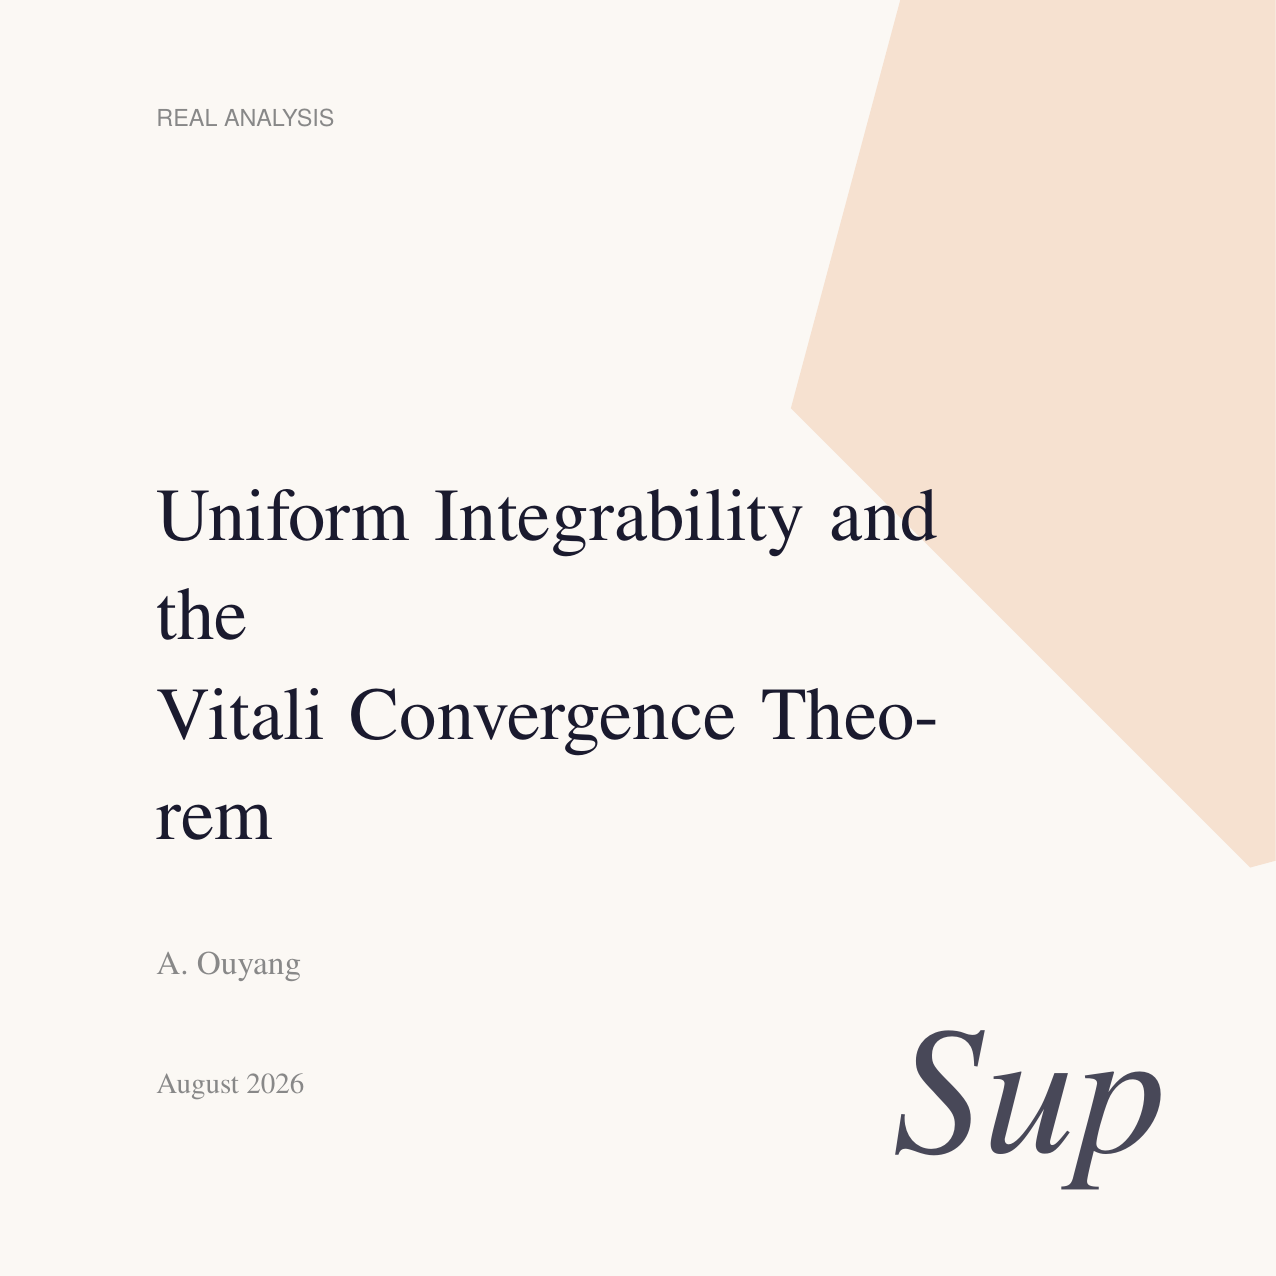
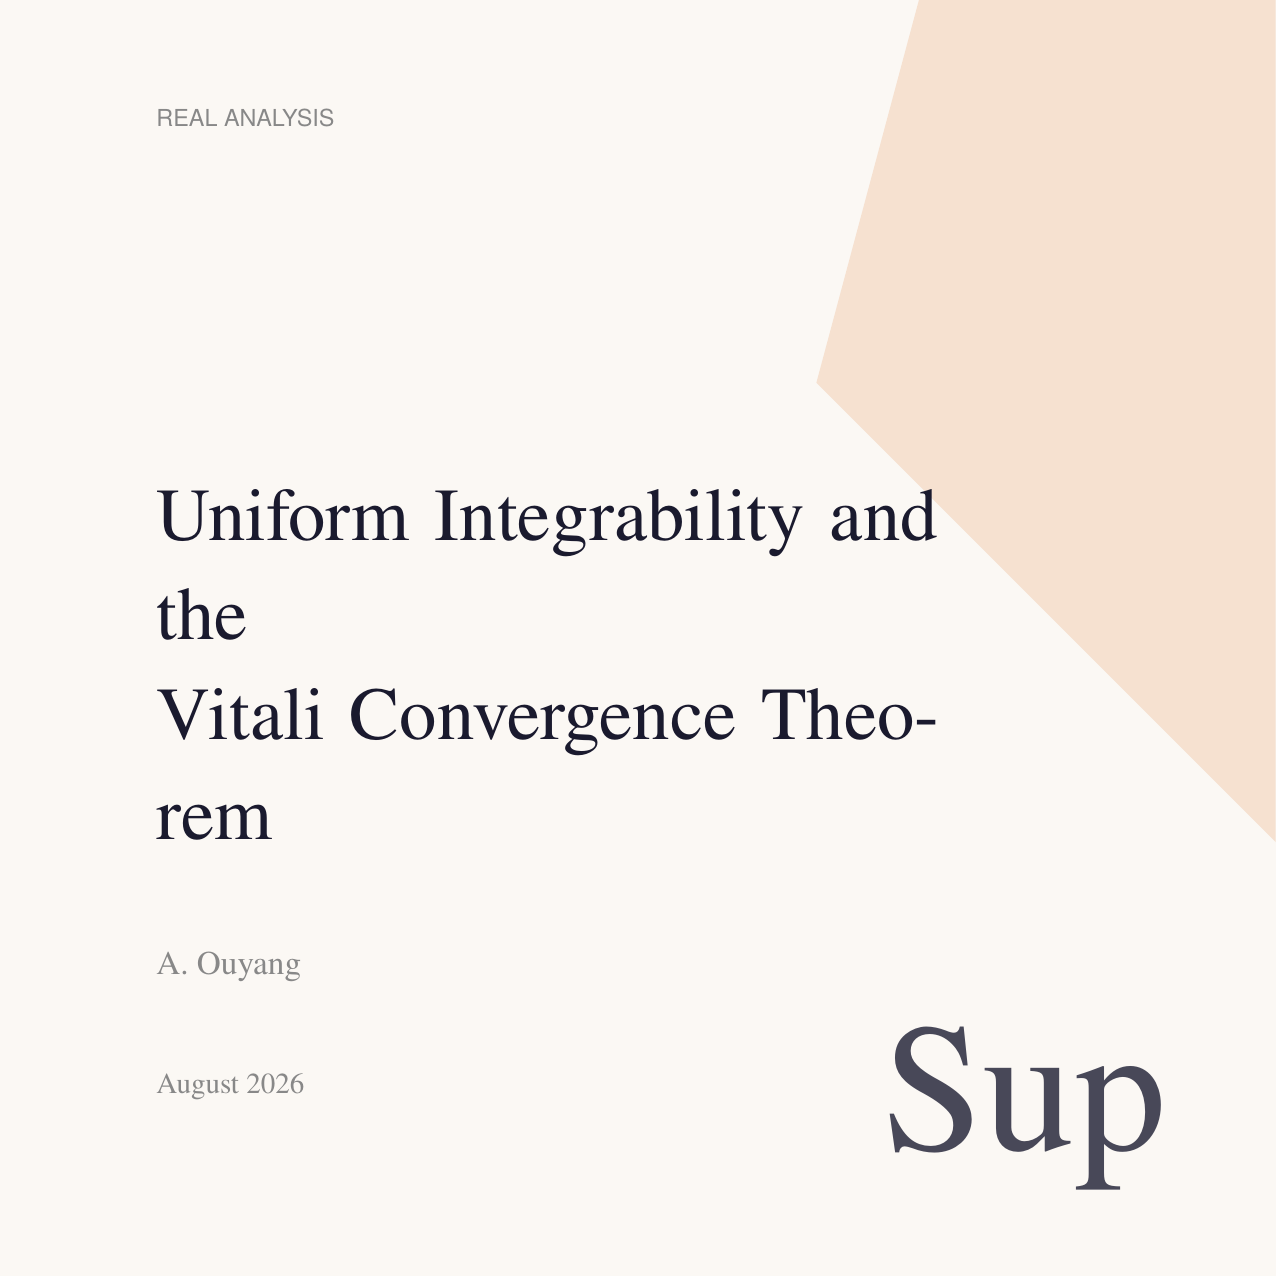
Fix cover: regular serif for Sup, enlarge hexagon to fill corner gap

Changed region(s): [[0.6113, 0.0, 1.0, 0.703], [0.703, 0.7947, 0.9169, 0.9475]]

diff --git a/covers/gen_covers.py b/covers/gen_covers.py
@@ -133,7 +133,7 @@ def make_cover(numeral, title, authors, date, series_name,
 
 %% Numeral
 \node[anchor=south east,
-  font=\itshape\fontsize{"""
+  font=\fontsize{"""
     + f"{numeral_size}"
     + r"""}{"""
     + f"{numeral_size}"
@@ -162,7 +162,7 @@ for numeral, title_en, title_zh, authors, date_en, date_zh in ARTICLES:
         w, h = 10.8, 10.8
         tex = make_cover(numeral, title, authors, date, series,
             width_cm=w, height_cm=h, is_zh=is_zh,
-            hex_cx_frac=0.62, hex_cy_frac=0.68, hex_r=5.5,
+            hex_cx_frac=0.64, hex_cy_frac=0.70, hex_r=6.2,
             title_size=18, title_lead=24, numeral_size=44,
             title_width_frac=0.65, series_size=6,
             numeral_xshift=-0.8, numeral_yshift=0.6,
@@ -176,7 +176,7 @@ for numeral, title_en, title_zh, authors, date_en, date_zh in ARTICLES:
         w, h = 23.5, 10.0
         tex = make_cover(numeral, title, authors, date, series,
             width_cm=w, height_cm=h, is_zh=is_zh,
-            hex_cx_frac=0.65, hex_cy_frac=0.65, hex_r=7.0,
+            hex_cx_frac=0.67, hex_cy_frac=0.68, hex_r=8.0,
             title_size=20, title_lead=27, numeral_size=50,
             title_width_frac=0.45, series_size=7,
             numeral_xshift=-1.0, numeral_yshift=0.6,
